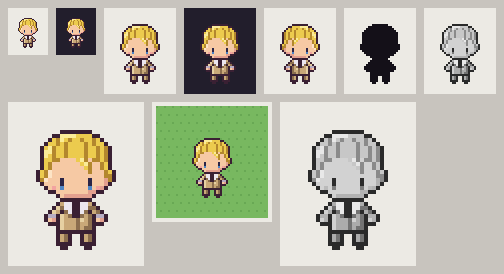
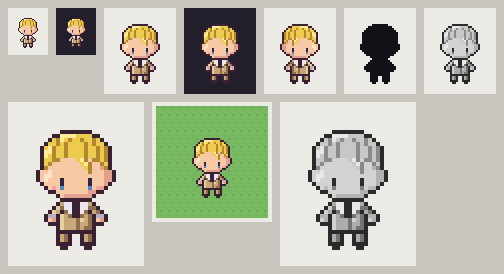
Test 13 costume : favoris raccourcis au niveau des tempes
Claude-Session: https://claude.ai/code/session_013wkJTCTwukCLdUSFsReJoa

diff --git a/methode_dessin/test13_chibi_template/costume/NOTES.md b/methode_dessin/test13_chibi_template/costume/NOTES.md
@@ -39,3 +39,4 @@ la tenue changent ; corps, peau, yeux et trait du template restent ceux du test 
 - Ajout : une mèche échappée qui retombe sur le front, côté droit, des rangées 13 à 16. Elle s'arrête au-dessus de l'œil.
 - Piège : sur la peau, la règle de contour rend sombre (D) une mèche de 2 à 3 px de large, qui se lit alors comme un trait. Je l'ai recolorée à la main dans c06b : H au cœur, h sur le bord gauche, D seulement sur le bord droit.
 - Ajout : des favoris de 2 px de large qui descendent des tempes jusqu'au niveau des oreilles (rangées 15 à 18) et finissent en pointe. Ils sont posés à la main dans c06b : H à l'extérieur et D contre la joue. J'ai aussi mis un pixel H à la rangée 14 pour raccorder la tempe au favori sans bande sombre.
+- Correction : les favoris doivent être au niveau des tempes, pas des oreilles. Je les ai raccourcis aux rangées 13 à 15 : ils s'arrêtent avant le début de l'oreille (rangée 16), avec une pointe D en bas.
